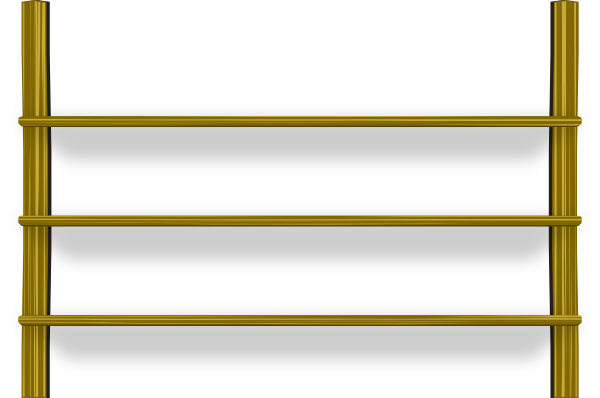
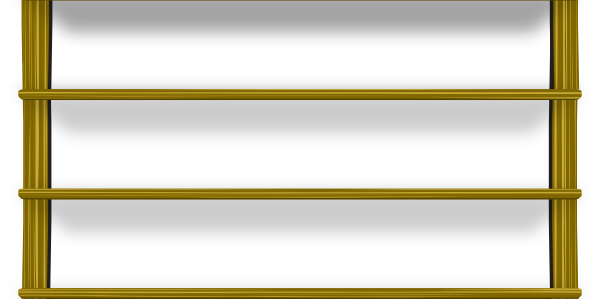
ree

diff --git a/templates/profile.html b/templates/profile.html
@@ -32,7 +32,51 @@
     <div> You may change your password <a href={{url_for("change_password")}}>here</a>.</div>
     <div> You may logout <a href={{url_for("logout")}}>here</a>.</div>
 
+    <div> You may view your currently listed books below. </div>
+    
+
+
 </div>
+
+<div style="text-align: center; width=80%">
+    
+    <div id="bookshelfHolder" class="text-center" style="width=100%; display:inline-block">
+       <div id="bookshelfHolderTop">aa</div>
+    
+    </div>
+</div>
+
+
+{% for book in owned_books %} 
+    {# <div> {{book.book_id}} : on i =  {{ loop.index }} <img src={{book.png}}> </div>  LOOP INDEX IS 1 INDEXED. #}
+    {% if loop.index % 3 == 1%}
+        
+        <script>
+        console.log("created at " + {{loop.index}});
+        var bookshelf = document.createElement("div");
+        bookshelf.classList.add("bookshelf");
+        document.getElementById("bookshelfHolder").appendChild(bookshelf);
+        </script>
+    {% endif %}
+    
+    <script>
+        function handleResponse(response) {
+            var item = response.items[0];
+            var bookElem = document.createElement("div");
+            var img = document.createElement("img");
+            img.src = item.volumeInfo.imageLinks.thumbnail;
+            img.addEventListener("click", ()=> {
+                location.href = '/request_book/' + {{book.book_id}};
+            })
+            bookElem.appendChild(img);
+            var bookshelves = document.getElementsByClassName("bookshelf");
+            bookshelves[bookshelves.length - 1].appendChild(bookElem);
+
+        }
+    </script>
+    <script src="https://www.googleapis.com/books/v1/volumes?q=isbn:{{book.isbn}}&callback=handleResponse"></script>
+{% endfor %}
+
+
+
 {% endblock %}
-        apprentice 🧑+✨=👨🎓 
-            <div> </div>

diff --git a/templates/index.html b/templates/index.html
@@ -16,7 +16,7 @@
         <div>View books <a href={{url_for('listings')}}>here</a></div>
         <div>add a book to the magic bookshelf <a href="/create_listing">here</a></div>
     {% else %}
-        <div>💡 knowledge is power!</div>
+        <div>The Magic Bookshelf was conceived by the existence of the virtues: 💡knowledge is power and one man's trash is another man's treasure💎</div>
         <div>become a part of a resourceful community dedicated to lifelong learning</div>
         <div>💖 Join the society <a href={{url_for('register')}}>here</a></div>
         <div>💞 Returning users, enter <a href={{url_for('login')}}>here</a></div>

diff --git a/static/index.css b/static/index.css
@@ -27,12 +27,23 @@ body {
   color:black;
 }
 
+#bookshelfHolderTop {
+  padding:auto;
+  margin:auto;
+  background-size: cover;
+  background-repeat: no-repeat;
+  background-image: url("topshelf.png");
+  width: 200%;
+  height: 200%;
+}
+
 .bookshelf {
+  padding:auto;
   background-size: cover;
   background-repeat: no-repeat;
   background-image: url("bookshelf.png");
-  width: 1200px;
-  height: 800px;
+  width: 200%;
+  height: 200%;
 }
 
 .btn {

diff --git a/main.py b/main.py
@@ -195,8 +195,10 @@ def show_profile(name):
     # DO not login in if alredy logged in
     if not current_user.is_authenticated:
         return redirect(url_for("login"))
-
-    return render_template('profile.html', current_user=current_user)
+        
+    session = Session()
+    ob=session.query(Book).filter(Book.owner == current_user.user_id)
+    return render_template('profile.html', current_user=current_user, owned_books=ob)
 
 @app.route("/change_password", methods=["GET", "POST"])
 @login_required
